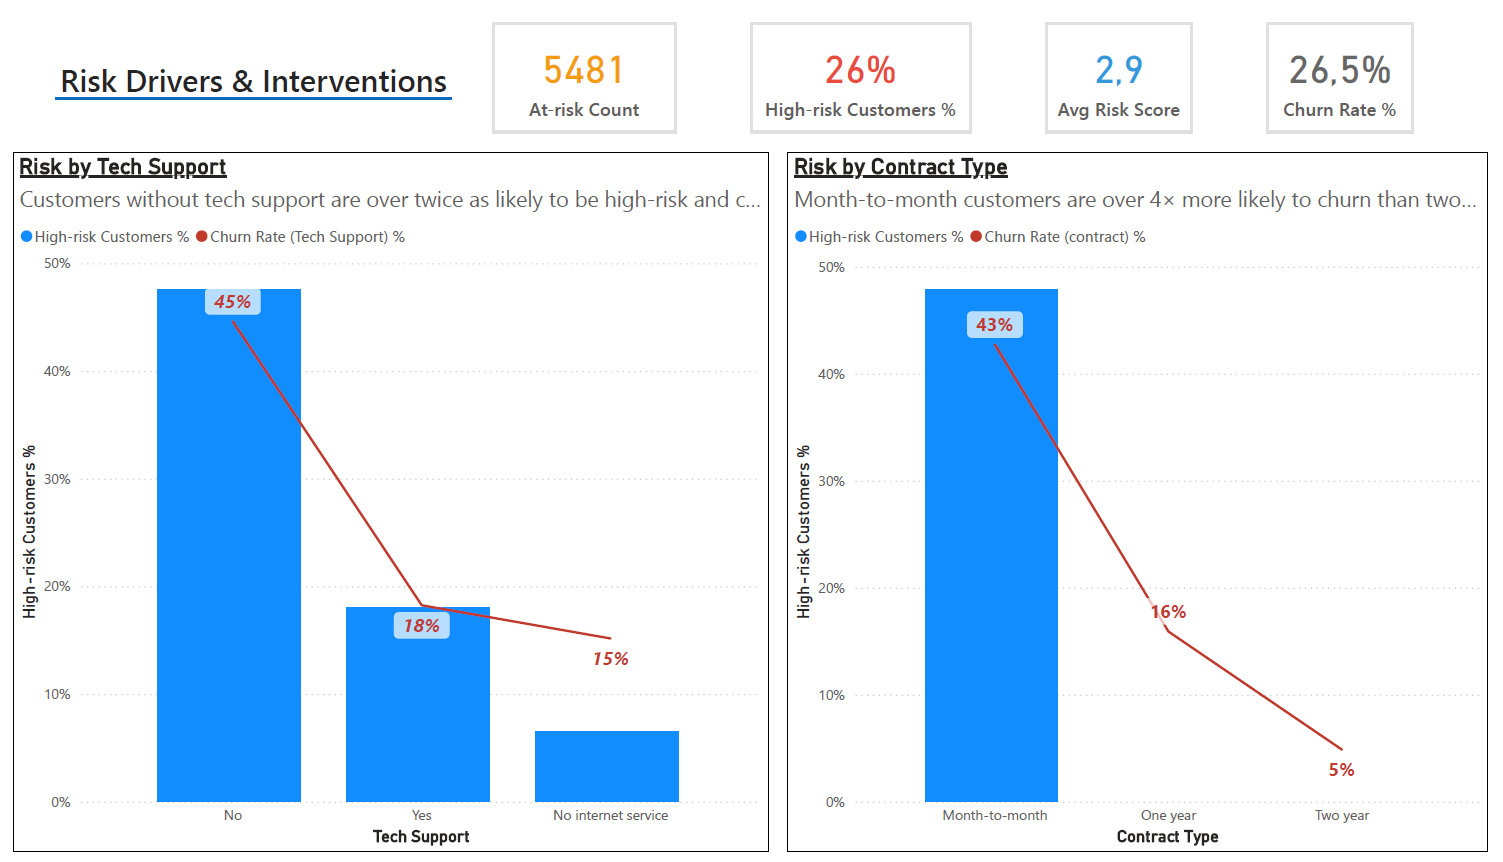
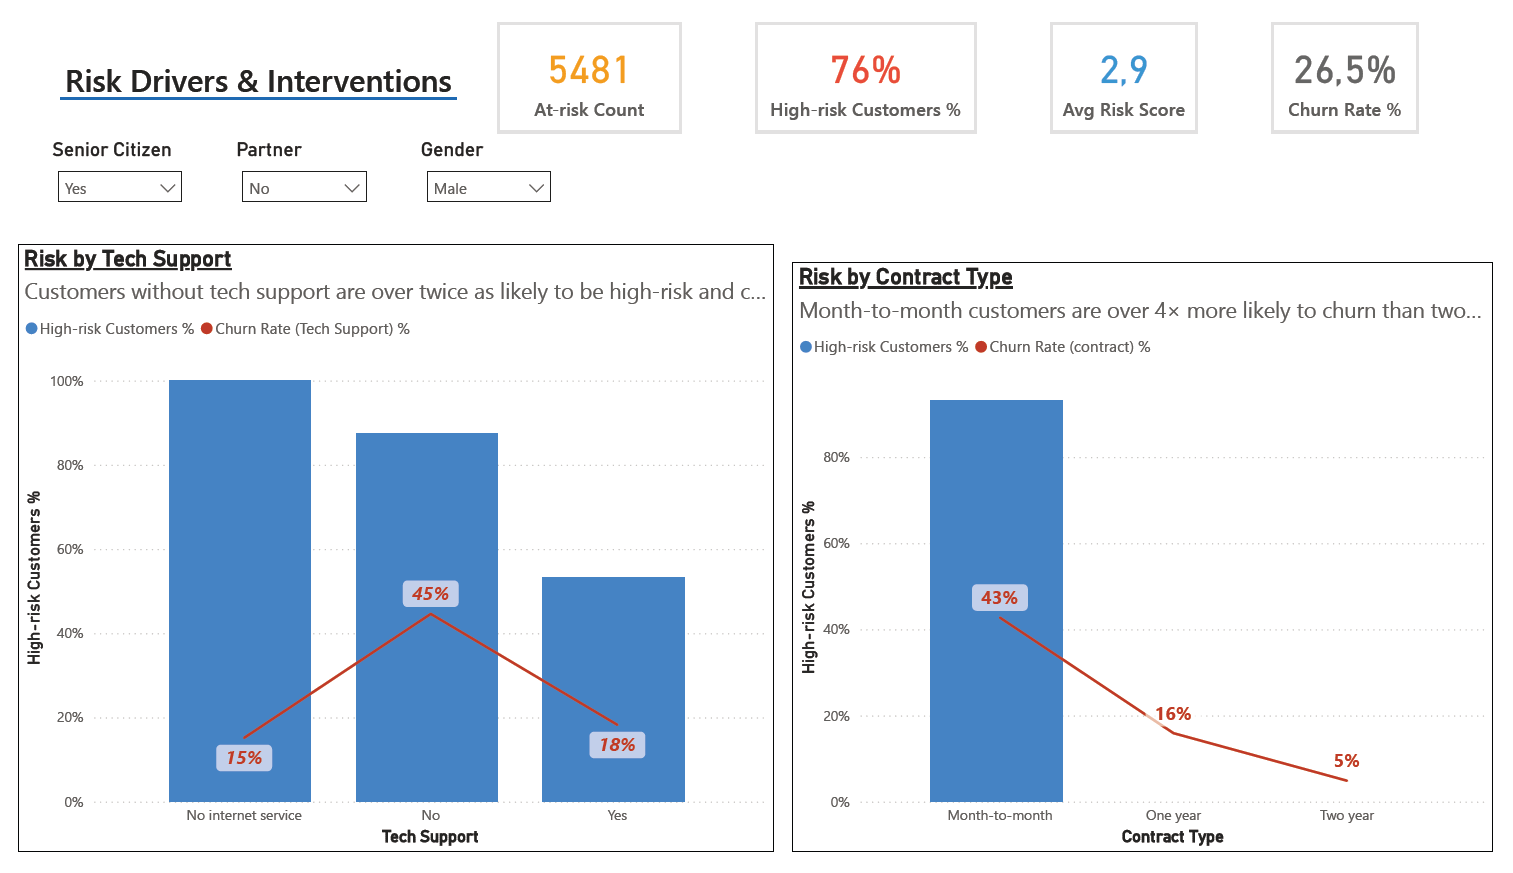
finalizing (readme)

diff --git a/docs/README.md b/docs/README.md
@@ -1,93 +1,256 @@
-![Dashboard Cover](docs/visuals/Risk Drivers & Interventions.png)
+!\[Dashboard Cover](docs/visuals/Risk Drivers \& Interventions.png)
 
 
-📊 Customer Retention Analysis – SQL → Metabase → Power BI Pipeline
 
-Objective:
-Analyze churn behavior and retention drivers for a telecommunications company using SQL, Metabase, and Power BI — building a full modern analytics workflow from data extraction to executive visualization.
+\# 📊 Customer Retention SQL Project  
 
-⚙ Workflow Overview
-Stage	Tool	Description
-🧩 Data Modeling	PostgreSQL	SQL views created to clean, join, and aggregate customer data into analytical tables (v_customers_features, v_churn_summary, etc.)
-🔍 Exploration	Metabase	Interactive visual exploration of churn by tenure, contract, tech support, gender, senior citizen, and partner — using dynamic filters connected to SQL queries
-📈 Visualization	Power BI	Final executive dashboards with KPIs, combo charts, and slicers, following best-practice star schema modeling
-🧠 What We Found
+\*\*Full Analytics Workflow: SQL → Metabase → Power BI\*\*
 
-1⃣ Churn is heavily front-loaded.
-Over 50 % of churn occurs in the first six months of tenure — customer onboarding and early experience are critical retention windows.
+---
 
-2⃣ Contract type is the strongest churn predictor.
-Month-to-month customers churn 4× more than those on two-year contracts.
+\## 🎯 Objective  
 
-3⃣ Lack of tech support doubles churn risk.
-Customers without tech support have a 45 % high-risk rate vs 18 % for supported customers.
+Analyze customer churn and retention drivers for a telecommunications company using a full modern analytics stack — \*\*PostgreSQL\*\*, \*\*Metabase\*\*, and \*\*Power BI\*\* — moving from raw data to executive insights.
 
-4⃣ Senior and partner demographics show no major difference,
-but their inclusion improved segmentation flexibility for dashboard filters.
+---
 
-🧮 Metrics & Measures (Power BI)
-KPI	Formula (DAX)	Description
-Total Customers	COUNTROWS(customers_features)	Total active customers
-Churners	CALCULATE([Total Customers], customers_features[churn_flag] = TRUE())	Count of churned customers
-Churn Rate %	DIVIDE([Churners], [Total Customers])	Share of churned customers
-Retained	[Total Customers] - [Churners]	Still-active customers
-High-Risk %	DIVIDE(CALCULATE([Total Customers], customers_features[risk_bucket]="High (5–6)"), [Total Customers])	Share of customers in top risk band
-🧱 Data Model (Star Schema)
-DimSenior      → customers_features ← DimPartner
-                                 ↑
-                              (fact)
+\## 📁 Project Structure  
 
+```
 
-DimSenior / DimPartner: Boolean “Yes/No” dimension tables mapped to boolean fields in customers_features
+Retention-sql/
 
-customers_features: Fact table containing customer IDs, churn flags, risk scores, service features, and demographic attributes
+│
 
-Relationships: Many-to-One, Single direction, no ambiguity
+├── bi/                → Power BI reports, dashboards, and DAX measures  
 
-🧭 Key Visuals (Power BI)
+├── data/              → Cleaned CSVs or intermediate datasets  
 
-(Insert screenshots here — three from your dashboard)
+├── docs/              → Documentation and visual materials  
 
-Customer Retention Overview: Combo chart of churn rate vs customer count by tenure group
+│   ├── visuals/       → Screenshots and demo captures  
 
-Customer Risk Overview: Donut + combo chart of risk bucket distribution and churn intensity
+│   └── README.md      → (This file)  
 
-Risk Drivers & Interventions: Tech support and contract type breakdowns with interactive slicers for senior, partner, and gender
+├── exports/           → SQL exports, CSV outputs from queries  
 
-🧰 Technical Highlights
+├── sql/               → SQL scripts and view definitions  
 
-Metabase SQL filters: Implemented field-linked text + boolean filters ([[AND gender={{gender}}]], etc.)
+│
 
-Boolean conversion: Added Power Query columns (SeniorBool, PartnerBool) to replace 0/1 flags with logical types
+└── README.md          → Root-level overview (optional summary)
 
-Dynamic relationships: Built clean dimension tables (DimSenior, DimPartner) using DATATABLE()
+```
 
-Cross-tool consistency: Verified same insights in Metabase and Power BI
+---
 
-🚀 Recommendations
+\## ⚙ Workflow Overview  
 
-Introduce loyalty incentives after 6 months to counter early churn.
+| Stage | Tool | Description |
 
-Encourage contract upgrades via retention campaigns.
+|--------|------|-------------|
 
-Prioritize proactive outreach to customers without tech support.
+| 🧩 Data Modeling | \*\*PostgreSQL\*\* | Created analytical SQL views (`v\_customers\_features`, `v\_churn\_summary`, etc.) to aggregate and clean data |
 
-🖼 Demo Material
+| 🔍 Exploration | \*\*Metabase\*\* | Interactive exploration with SQL-based charts and global filters (gender, partner, senior citizen) |
 
-📸 /assets/screenshots/
+| 📈 Visualization | \*\*Power BI\*\* | Final executive dashboard with KPIs, slicers, combo charts, and star-schema modeling |
 
-retention_overview.png
+---
 
-risk_overview.png
+\## 🧠 Key Findings  
 
-drivers_interventions.png
+\*\*1⃣ Early-tenure churn dominates:\*\*  
 
-🎥 /assets/demo/
+Over \*\*50 % of churn occurs within the first six months\*\* — customer onboarding is the critical retention window.  
 
-retention_dashboard_demo.mp4 (~15 s scrolling video recommended)
+\*\*2⃣ Contract type is the main driver:\*\*  
 
-## 👤 Author
+Month-to-month customers churn \*\*4× more\*\* than two-year contract customers.  
+
+\*\*3⃣ Tech support matters:\*\*  
+
+Lack of tech support doubles churn risk (\*\*45 %\*\* vs \*\*18 %\*\*).  
+
+\*\*4⃣ Senior and partner filters enable better segmentation,\*\*  
+
+even if their standalone impact is moderate.
+
+---
+
+\## 📈 Power BI Dashboard Overview  
+
+\### 1⃣ Customer Retention Overview  
+
+![Customer Retention Overview](docs/visuals/Customer%20Retention%20Overview.png)
+
+\- KPIs: Total Customers, Churners, Churn Rate %, Retained  
+
+\- Combo chart: Churn % vs Customer volume by tenure bucket  
+
+&nbsp; → \*Insight:\* Early churn is the main challenge  
+
+\### 2⃣ Customer Risk Overview  
+
+![Customer Risk Overview](docs/visuals/Customer%20Risk%20Overview.png)
+
+\- Donut chart: Risk bucket distribution  
+
+\- Combo chart: Churn % vs Risk level  
+
+&nbsp; → \*Insight:\* High-risk customers churn ≈ 71 %, 8× higher than low risk  
+
+\### 3⃣ Risk Drivers \& Interventions  
+
+![Customer Risk Overview](docs/visuals/Customer%20Risk%20Overview.png)
+
+\- Slicers: \*\*Senior Citizen\*\*, \*\*Partner\*\*, \*\*Gender\*\*  
+
+\- Charts:  
+
+&nbsp; - Tech Support vs Churn %  
+
+&nbsp; - Contract Type vs Churn %  
+
+&nbsp; → \*Insight:\* Month-to-month + no tech support = highest churn likelihood  
+
+---
+
+\## 🧮 Power BI Measures  
+
+| KPI | Formula | Description |
+
+|------|----------|-------------|
+
+| \*\*Total Customers\*\* | `COUNTROWS(customers\_features)` | Total active customers |
+
+| \*\*Churners\*\* | `CALCULATE(\[Total Customers], customers\_features\[churn\_flag] = TRUE())` | Customers who churned |
+
+| \*\*Churn Rate %\*\* | `DIVIDE(\[Churners], \[Total Customers])` | Churn share |
+
+| \*\*Retained\*\* | `\[Total Customers] - \[Churners]` | Active customers |
+
+| \*\*High-Risk %\*\* | `DIVIDE(CALCULATE(\[Total Customers], customers\_features\[risk\_bucket]="High (5–6)"), \[Total Customers])` | High-risk customers share |
+
+---
+
+\## 🧱 Data Model (Star Schema)  
+
+```
+
+DimSenior      → customers\_features ← DimPartner
+
+&nbsp;                                ↑
+
+&nbsp;                             (Fact Table)
+
+```
+
+\- \*\*DimSenior / DimPartner:\*\* Created with `DATATABLE()` for clean Yes/No filtering  
+
+\- \*\*customers\_features:\*\* Fact table with churn flag, service, and demographic data  
+
+\- Relationships: \*\*Many-to-One\*\*, \*\*Single Direction\*\*, no ambiguity  
+
+---
+
+\## 💡 Technical Notes 
+
+\- Converted 0/1 columns to \*\*Boolean\*\* in Power Query (`TRUE/FALSE`)  
+
+\- Built dimension tables for `DimSenior` and `DimPartner`  
+
+\- Fixed relationship ambiguity by enforcing \*\*single active filter paths\*\*  
+
+\- Validated all visuals across Metabase and Power BI for consistency  
+
+---
+
+\## 🧩 Metabase Highlights  
+
+\- Connected to PostgreSQL schema `retention`  
+
+\- Built \*\*exploratory SQL questions\*\*:
+
+&nbsp; - `Churn by Contract Type`
+
+&nbsp; - `Churn by Tech Support`
+
+&nbsp; - `Churn Rate by Tenure Bucket`  
+
+\- Implemented \*\*global filters\*\* (gender, senior citizen, partner) using \*\*Field Filter\*\* type  
+
+\- Linked variables across all visual cards  
+
+---
+
+\## 🧰 Tools \& Technologies  
+
+| Category | Tools |
+
+|-----------|--------|
+
+| Database | PostgreSQL |
+
+| BI Tools | Power BI, Metabase |
+
+| Languages | SQL, DAX |
+
+| Modeling | Star Schema (Dim–Fact) |
+
+| Data Types | Boolean, Categorical, Numeric |
+
+---
+
+\## 📸 Docs \& Visuals  
+
+Located in `/docs/visuals/`
+
+| File | Description |
+
+|------|--------------|
+
+| `retention\_overview.png` | Power BI Customer Retention Overview |
+
+| `risk\_overview.png` | Risk segmentation dashboard |
+
+| `drivers\_interventions.png` | Risk driver visuals |
+
+| \*(optional)\* `demo.mp4` | 20s walkthrough clip for GitHub |
+
+---
+
+\## 🚀 Recommendations  
+
+1\. \*\*Strengthen early engagement\*\* (first 6 months).  
+
+2\. \*\*Encourage long-term contracts\*\* for better retention.  
+
+3\. \*\*Prioritize tech support\*\* for high-risk and new customers.  
+
+---
+
+\## 💬 Summary  
+
+This project demonstrates a complete \*\*data-to-insight pipeline\*\*:  
+
+> SQL data modeling → Metabase exploration → Power BI storytelling  
+
+It integrates technical execution with strategic interpretation — turning raw churn data into \*\*actionable retention recommendations\*\*.
+
+---
+
+&nbsp;
+
+💼 \*\*Stack:\*\* PostgreSQL | Metabase | Power BI | DAX | SQL  
+
+🕓 \*\*Completed:\*\* October 2025  
+
+📂 \*\*Repository:\*\* `Retention-sql`
+
+👤Author
+
 **Francesco Marchì**  
 📍 Ho Chi Minh City, Vietnam  
-📧 [marchi.frncsc@gmail.com]  
+📧 \[marchi.frncsc@gmail.com]  
 🔗 [LinkedIn Profile](https://www.linkedin.com/in/francesco-march%C3%AC-115657205/)
